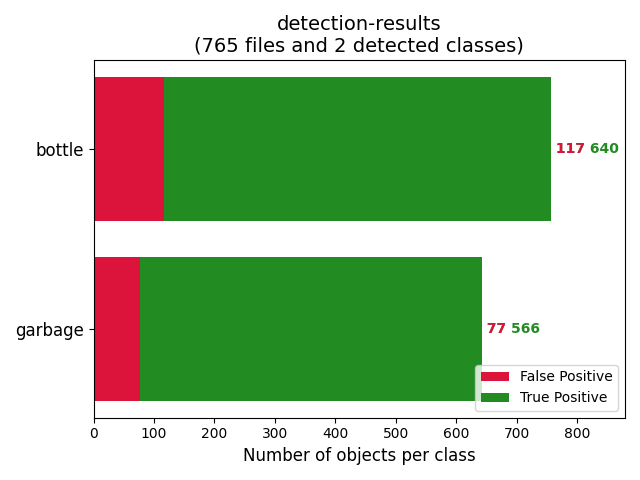
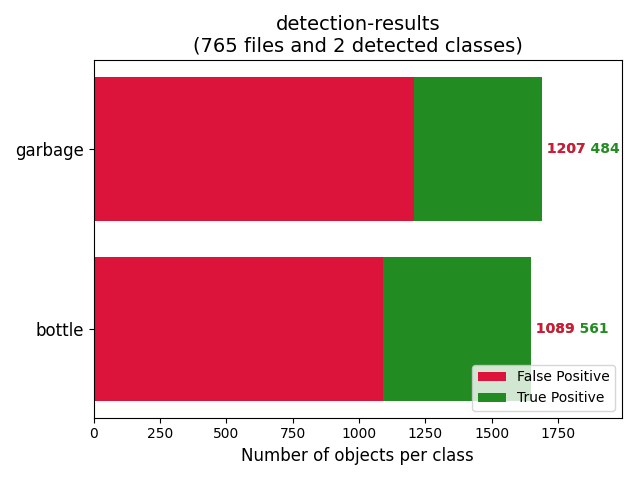
mAP detection conf_thresh 0.001  nus 0.45

diff --git a/mAP/main.py b/mAP/main.py
@@ -9,7 +9,7 @@ import math
 
 import numpy as np
 
-MINOVERLAP = 0.5 # default value (defined in the PASCAL VOC2012 challenge)
+MINOVERLAP = 0.3 # default value (defined in the PASCAL VOC2012 challenge)
 
 parser = argparse.ArgumentParser()
 parser.add_argument('-na', '--no-animation', help="no animation is shown.", action="store_true")
@@ -323,8 +323,8 @@ def draw_plot_func(dictionary, n_classes, window_title, plot_title, x_label, out
     # save the plot
     fig.savefig(output_path)
     # show image
-    if to_show:
-        plt.show()
+    #if to_show:
+    #    plt.show()
     # close the plot
     plt.close()
 
@@ -725,7 +725,7 @@ with open(output_files_path + "/output.txt", 'w') as output_file:
 
     output_file.write("\n# mAP of all classes\n")
     mAP = sum_AP / n_classes
-    text = "mAP = {0:.2f}%".format(mAP*100)
+    text = "mAP@{0} = {1:.2f}%".format(MINOVERLAP,mAP*100)
     output_file.write(text + "\n")
     print(text)
 
@@ -885,7 +885,7 @@ if draw_plot:
 """
 if draw_plot:
     window_title = "mAP"
-    plot_title = "mAP = {0:.2f}%".format(mAP*100)
+    plot_title = f"mAP@{MINOVERLAP} = {mAP*100:.2f}%"
     x_label = "Average Precision"
     output_path = output_files_path + "/mAP.png"
     to_show = True

diff --git a/mAP_create_detections.py b/mAP_create_detections.py
@@ -28,7 +28,7 @@ def parser():
 
     parser.add_argument(
             "--weights", 
-            default="backup/cv5-1/yolov4_8/yolov4_8_best.weights",
+            default="backup/cv5-1/yolov4_8/yolov4_8_7000.weights",
             help="yolo weights path") 
 
     parser.add_argument(
@@ -62,7 +62,7 @@ def parser():
     parser.add_argument(
             "--iou_thresh", 
             type=float, 
-            default=.5,
+            default=.45,
             help="nms: remove detections with iou higher this value") 
 
     return parser.parse_args()
